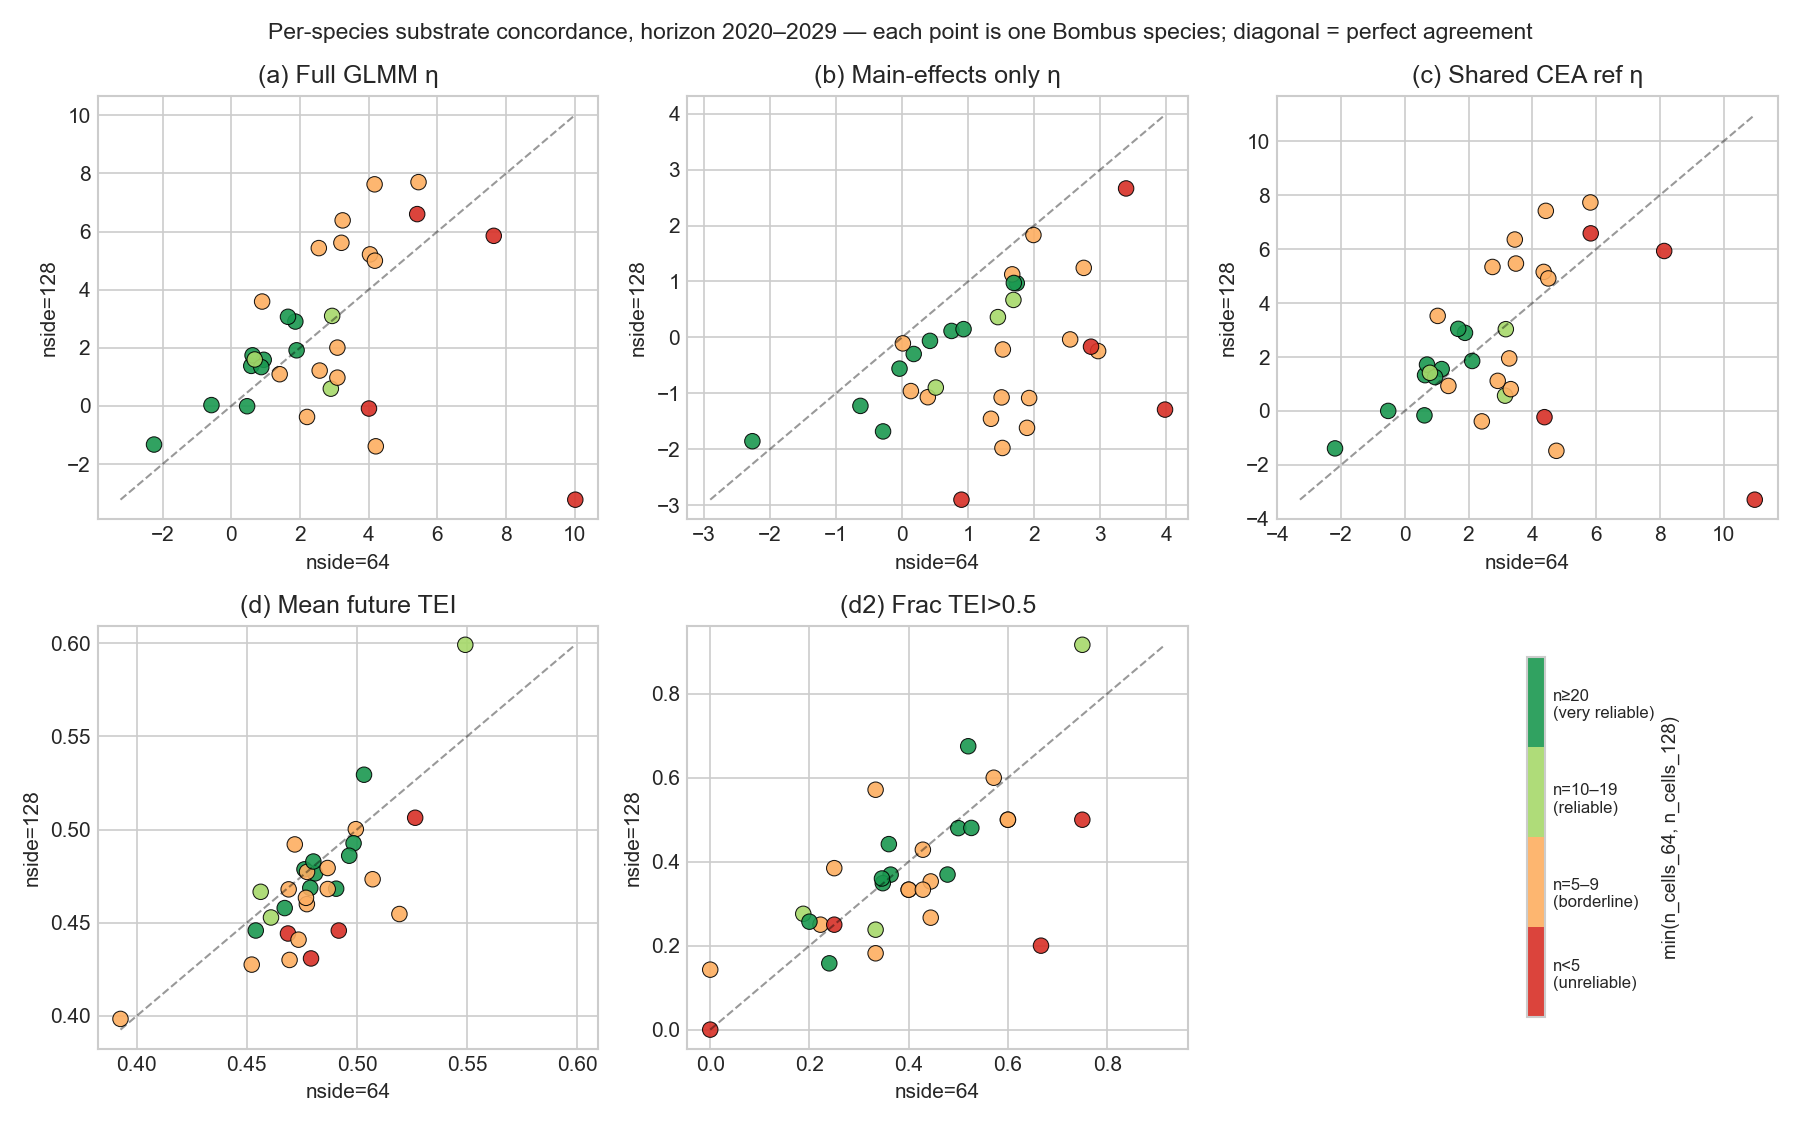
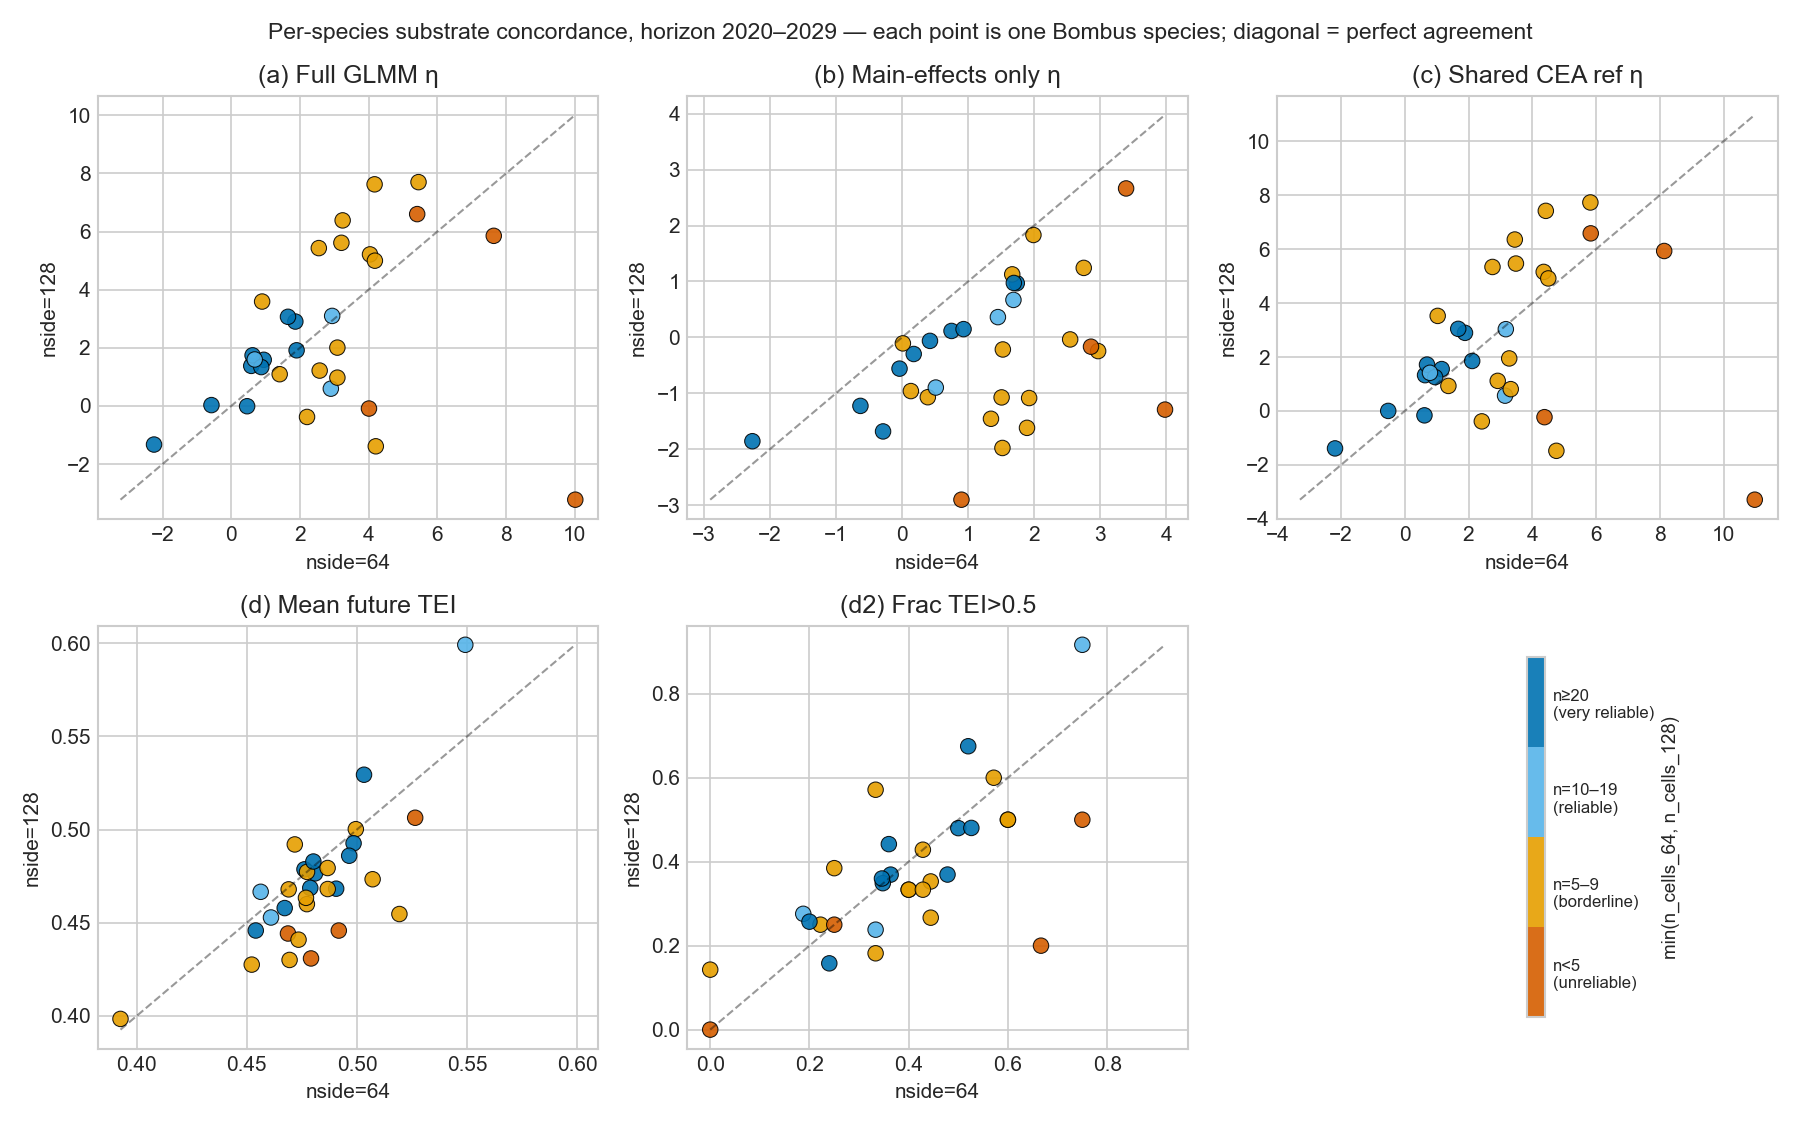
Figures: switch to colorblind-safe palettes (Okabe-Ito + RdYlBu)
The previous RdYlGn-derived palette (red, orange, light green, dark
green) is one of the worst choices for deuteranopia — affects ~5% of
men. Replaced with two colorblind-safe palettes:

  - Per-variant scatter: Okabe-Ito 4-color discrete
    (vermillion -> orange -> sky blue -> deep blue). Safe across
    deuteranopia, protanopia, tritanopia AND grayscale printing.
    Warm->cool progression preserves the bad->good reading order.

  - Concordance heatmap: RdYlBu (ColorBrewer's colorblind-safe
    diverging). Low concordance = red, high = blue, yellow midpoint.
    Cell text colour adjusts to luminance at both ends so the
    numeric labels stay readable on dark cells.

The cell-value text on the heatmap also provides redundant encoding,
which is the standard colorblind-design fallback when colour alone
isn't sufficient.

diff --git a/scripts/plot_variant_concordance.py b/scripts/plot_variant_concordance.py
@@ -46,7 +46,9 @@ def main(horizon: str):
                 rho_grid[i, j] = r
 
     fig, ax = plt.subplots(figsize=(7.0, 4.2), dpi=150)
-    im = ax.imshow(rho_grid, vmin=0.0, vmax=1.0, cmap="RdYlGn", aspect="auto")
+    # RdYlBu is ColorBrewer's colorblind-safe red-to-blue diverging:
+    # low concordance (vmin=0) = red (bad); high concordance (vmax=1) = blue (good).
+    im = ax.imshow(rho_grid, vmin=0.0, vmax=1.0, cmap="RdYlBu", aspect="auto")
     ax.set_xticks(range(len(n_filters)))
     ax.set_xticklabels(
         [f"≥{n}\n(n={ns})" for n, ns in zip(n_filters, n_species_per_filter)]
@@ -62,7 +64,9 @@ def main(horizon: str):
         for j in range(len(n_filters)):
             v = rho_grid[i, j]
             if not np.isnan(v):
-                color = "white" if v < 0.5 else "black"
+                # RdYlBu is dark at both ends (red, blue), light in the
+                # middle (yellow). White text on dark, black text on light.
+                color = "white" if (v < 0.30 or v > 0.75) else "black"
                 ax.text(j, i, f"{v:+.2f}", ha="center", va="center", color=color, fontsize=9)
     cbar = fig.colorbar(im, ax=ax, label="Spearman ρ (rank concordance)")
     fig.tight_layout()
@@ -87,7 +91,10 @@ def main(horizon: str):
     n_min = np.minimum(df["n_cells_64"], df["n_cells_128"]).astype(float)
     n_top = float(max(n_min.max(), 20)) + 1
     bin_edges = [1, 5, 10, 20, n_top]
-    bin_colors = ["#d73027", "#fdae61", "#a6d96a", "#1a9850"]
+    # Okabe–Ito palette — colorblind-safe across deuteranopia, protanopia,
+    # tritanopia, AND luminance-distinguishable in grayscale. Warm-to-cool
+    # progression preserves the "bad → good" reading order.
+    bin_colors = ["#D55E00", "#E69F00", "#56B4E9", "#0072B2"]
     bin_labels = ["n<5\n(unreliable)", "n=5–9\n(borderline)", "n=10–19\n(reliable)", "n≥20\n(very reliable)"]
     cmap = plt.matplotlib.colors.ListedColormap(bin_colors)
     norm = plt.matplotlib.colors.BoundaryNorm(bin_edges, cmap.N)
